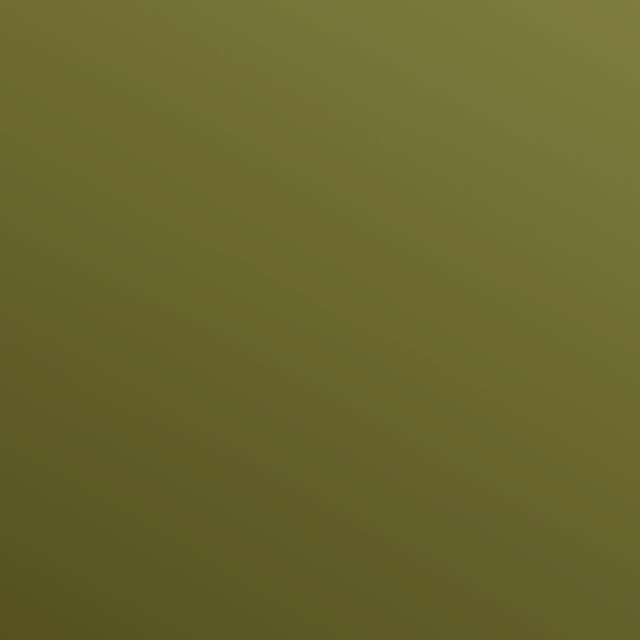
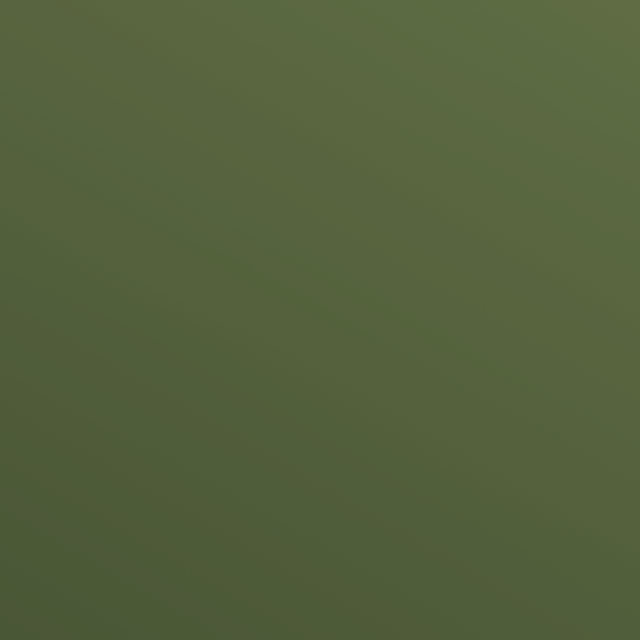
some color optimizations

diff --git a/wp-content/themes/looptheme/assets/styles/layouts/_posts.scss b/wp-content/themes/looptheme/assets/styles/layouts/_posts.scss
@@ -38,16 +38,18 @@ html {
             height: auto !important;
 
             h1 {
-              color: $fifth-color !important;
+              display: inline-block;
+              color: $green-color !important;
+              width: 100%;
+              max-width: 72%;
             }
 
             time {
               position: absolute;
-              top: -5px;
-              right: 2%;
+              top: 15px;
+              right: 0;
               font-size: 1.25em !important;
               color: $tertiary-font-color !important;
-              //background-color: $date-field-color !important;
               background-color: none;//$answer-field-color !important;
               background-image: url('/wp-content/themes/looptheme/assets/images/RedColorArea.jpg');
               background-size: 100%;
@@ -58,6 +60,7 @@ html {
 -webkit-border-radius: 12px !important;
 border-radius: 12px !important;
               overflow: hidden !important;
+              opacity: 0.9 !important;
             }
           }
 
@@ -78,10 +81,20 @@ border-radius: 12px !important;
             margin-bottom: 15px;
 
             header {
+              display: block;
+              width: 100%;
+
               h2 {
+                display: inline-block;
+                width: 100%;
+                max-width: 72%;
+
                 a {
                   font-family: 'IM Fell Great Primer', serif !important;
-                  color: rgba(200,255,200,1) !important;
+
+                  &, * {
+                    color: $green-color !important;
+                  }
 
                   &:hover {
                     text-decoration: none !important;
@@ -103,7 +116,6 @@ border-radius: 12px !important;
             .entry-content {
               position: relative;
               display: inherit;
-              //background-color: $answer-field-color !important;
               background-color: none;//$answer-field-color !important;
               background-image: url('/wp-content/themes/looptheme/assets/images/TopicTextArea.jpg');
               background-size: 100%;

diff --git a/wp-content/themes/looptheme/assets/styles/layouts/_pages.scss b/wp-content/themes/looptheme/assets/styles/layouts/_pages.scss
@@ -58,10 +58,6 @@ box-shadow: 0 0 6px 0 $shadow-color;
             border-width: 2px !important;
           }
 
-          a {
-            color: $secondary-color !important;
-          }
-
           div {
             h1 {
               span.vcard {
@@ -156,6 +152,8 @@ html body .container {
       caption {
         font-size: 1.5em;
         font-weight: bold;
+        color: $green-color !important;
+        opacity: 0.75 !important;
       }
 
       thead,
@@ -176,7 +174,11 @@ html body .container {
           }
 
           td {
-            color: $primary-font-color !important;
+            color: $green-color !important;
+
+            > * {
+              opacity: 0.75 !important;
+            }
 
             a {
               color: $tertiary-color !important;
@@ -215,6 +217,8 @@ border-radius: 12px !important;
 
     .tagcloud {
       a {
+        position: relative;
+        display: inline-block;
         color: $tertiary-color !important;
         background-color: none !important;//rgba(8,18,28,1);
         background: url('/wp-content/themes/looptheme/assets/images/RedColorArea.jpg') repeat !important;
@@ -222,8 +226,8 @@ border-radius: 12px !important;
         background-position: top left;
         background-attachment: fixed;
         padding: 0.2em 0.5em !important;
-        margin-right: 0.5em;
-        margin-bottom: 15px;
+        margin-top: 10px !important;
+        margin-right: 0.5em !important;
         font-size: 1em !important;
 -webkit-border-radius: 7px !important;
 border-radius: 7px !important;
@@ -239,5 +243,17 @@ border-radius: 7px !important;
 
   .widget_newsletterwidget {
     max-width: 73%;
+  }
+}
+
+html > body .container > header a,
+html > body .main a,
+html > body .sidebar a,
+html > body .container > footer a {
+  &, * {
+    color: $secondary-color !important;
+  }
+  &:hover, &:hover * {
+      color: $green-color !important;
   }
 }

diff --git a/wp-content/themes/looptheme/assets/styles/common/_variables.scss b/wp-content/themes/looptheme/assets/styles/common/_variables.scss
@@ -14,15 +14,16 @@ $base-color: rgba(40,50,60,0.75);
 $ground-color: rgba(5,10,14,0.8);
 $primary-color: rgba(18,28,38,0.8);
 $secondary-color: rgba(160,170,180,0.8);
-$tertiary-color: rgba(245,220,15,0.8);
+$tertiary-color: rgba(245,220,15,0.95);
 $quarter-color: rgba(0,0,0,0.75);
 $fifth-color: rgba(230,240,250,0.95);
+$green-color: rgba(200,255,200,1);
 $white-color: rgba(255,255,255,0.5);
 
 $main-font-color: $fifth-color;
 $primary-font-color: $fifth-color - rgba(40,40,40,0.95);
 $secondary-font-color: rgba(180,10,20,1);
-$tertiary-font-color: $tertiary-color + rgba(64,54,12,0.8);
+$tertiary-font-color: $tertiary-color + rgba(64,54,12,0.95);
 $quarter-font-color: $fifth-color;
 
 $footer-color: $black-color;

diff --git a/wp-content/themes/looptheme/assets/styles/common/_global.scss b/wp-content/themes/looptheme/assets/styles/common/_global.scss
@@ -62,10 +62,6 @@ html {
       color: $secondary-font-color !important;
       opacity: 1 !important;
       font-weight: bold !important;
-
-      &:hover {
-        color: $secondary-font-color !important;
-      }
     }
 
     h1,
@@ -75,6 +71,7 @@ html {
     h5,
     h6 {
       font-family: 'IM Fell Great Primer', serif !important;
+      line-height: 100% !important;
       opacity: 1 !important;
     }
 
